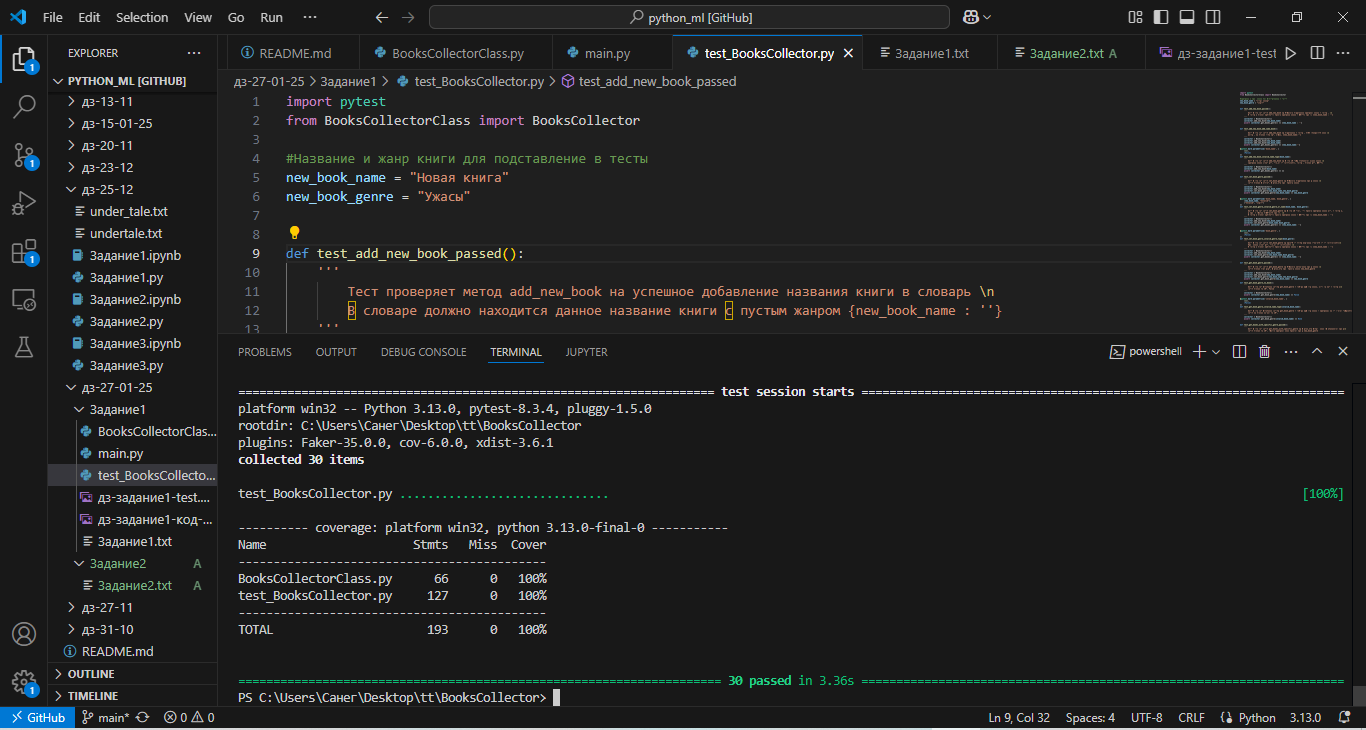
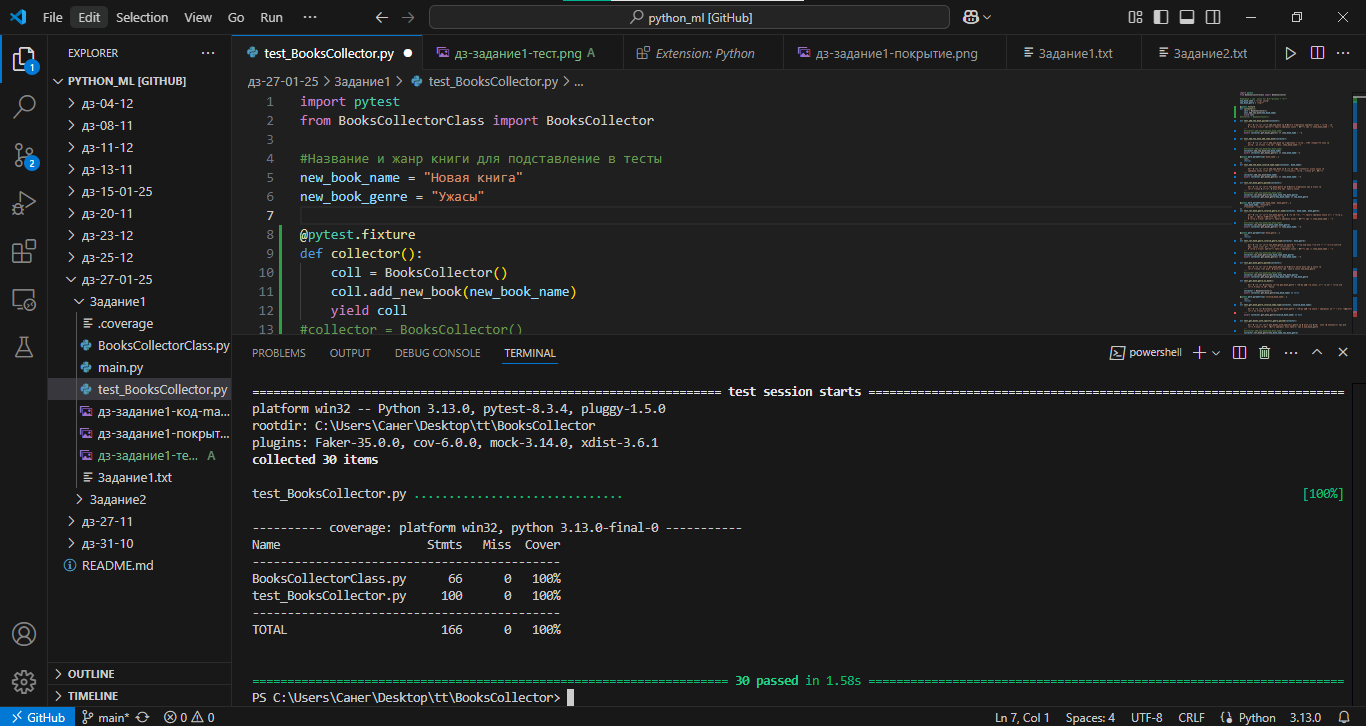
Поправки в Задании1 и 2

diff --git a/дз-27-01-25/Задание1/test_BooksCollector.py b/дз-27-01-25/Задание1/test_BooksCollector.py
@@ -5,24 +5,26 @@ from BooksCollectorClass import BooksCollector
 new_book_name = "Новая книга"
 new_book_genre = "Ужасы"
 
+@pytest.fixture
+def collector():
+    '''Возвращает обьект BooksCollector с одной добавленной книгой без жанра для тестирования'''
+    coll = BooksCollector()
+    coll.add_new_book(new_book_name)
+    yield coll
 
-def test_add_new_book_passed():
+def test_add_new_book_passed(collector):
     '''
         Тест проверяет метод add_new_book на успешное добавление названия книги в словарь \n
         В словаре должно находится данное название книги с пустым жанром {new_book_name : ''}
     '''
-    collector = BooksCollector()
-    collector.add_new_book(new_book_name)
     assert collector.get_books_genre() == {new_book_name : ''}
 
 
-def test_add_new_book_add_same_book():
+def test_add_new_book_add_same_book(collector):
     '''
         Тест проверяет метод add_new_book на добавление в словарь двух одинаковых книг \n
         Словарь не должен содержать копии, {new_book_name:''}
     '''
-    collector = BooksCollector()
-    collector.add_new_book(new_book_name)
     collector.add_new_book(new_book_name)
     assert collector.get_books_genre() == {new_book_name:''}
 
@@ -30,23 +32,20 @@ def test_add_new_book_add_same_book():
     (11),
     (False)
 ])
-def test_add_new_book_invalid_name_type(book_name):
+def test_add_new_book_invalid_name_type(collector, book_name):
     '''
         Тест проверяет метод add_new_book на проверку типа введенного имени книги \n
-        Название книги может быть только строковым(str), словарь должен быть пустым
+        Название книги может быть только строковым(str), словарь должен содержать только книгу добавленную в начале тестов collector
     '''
-    collector = BooksCollector()
     collector.add_new_book(book_name)
-    assert collector.get_books_genre() == {}
+    assert collector.get_books_genre() == {new_book_name: ''}
 
 
-def test_set_book_genre_passed():
+def test_set_book_genre_passed(collector):
     '''
         Тест проверяет метод set_book_genre на успешное добавление жанра книги \n
         Метод должен присвоить правильный жанр данной книги
     '''
-    collector = BooksCollector()
-    collector.add_new_book(new_book_name)
     collector.set_book_genre(new_book_name,new_book_genre)
     assert collector.get_book_genre(new_book_name) == new_book_genre
 
@@ -55,14 +54,12 @@ def test_set_book_genre_passed():
     (new_book_name, "Invalid"),
     ("Invalid", "Ужасы")
 ])
-def test_set_book_genre_invalid_genre_or_name(book_name, book_genre):
+def test_set_book_genre_invalid_genre_or_name(collector, book_name, book_genre):
     '''
         Тест проверяет метод set_book_genre на проверку того, что данное название книги есть в словаре,
         а жанр в списке допутимых жанров. \n
         В словаре должно находится данное название книги с пустым жанром {new_book_name : ''}
     '''
-    collector = BooksCollector()
-    collector.add_new_book(new_book_name)
     collector.set_book_genre(book_name,book_genre)
     assert collector.get_books_genre() == {new_book_name: ''}
 
@@ -71,25 +68,21 @@ def test_set_book_genre_invalid_genre_or_name(book_name, book_genre):
     (11),
     (False)
 ])
-def test_set_book_genre_invalid_genre_type(book_genre):
+def test_set_book_genre_invalid_genre_type(collector, book_genre):
     '''
         Тест проверяет метод set_book_genre на защиту от ввода значений отличных от строкового(str)\n
         Жанр книги может быть только строковым(str) \n
         В словаре должно находится данное название книги с пустым жанром {new_book_name : ''}
     '''
-    collector = BooksCollector()
-    collector.add_new_book(new_book_name)
     collector.set_book_genre(new_book_name,book_genre)
     assert collector.get_books_genre() == {new_book_name: ''}
 
 
-def test_get_book_genre_passed():
+def test_get_book_genre_passed(collector):
     '''
         Тест проверяет метод get_book_genre на успешное извлечение жанра книги \n
         Метод должен возвращать правильный жанр данной книги new_book_genre
     '''
-    collector = BooksCollector()
-    collector.add_new_book(new_book_name)
     collector.set_book_genre(new_book_name,new_book_genre)
     assert collector.get_book_genre(new_book_name) == new_book_genre
 
@@ -105,22 +98,19 @@ def test_get_book_genre_no_book():
     (11),
     (False)
 ])
-def test_get_book_genre_invalid_name_type(invalid_book_name):
+def test_get_book_genre_invalid_name_type(collector, invalid_book_name):
     '''
         Тест проверяет поведение метода get_book_genre в случае запроса книги с названием не строчного типа(str)\n
         Метод не должен ничего вернуть
     '''
-    collector = BooksCollector()
     assert collector.get_book_genre(invalid_book_name) == None
 
 
-def test_get_books_with_specific_genre_passed():
+def test_get_books_with_specific_genre_passed(collector):
     '''
         Тест проверяет метод get_books_with_specific_genre на правильный подбор книг определенного жанра\n
         Метод должен вернуть список названия книг данного жанра new_book_genre
     '''
-    collector = BooksCollector()
-    collector.add_new_book(new_book_name)
     collector.set_book_genre(new_book_name,new_book_genre)
     collector.add_new_book("Другая книга")
     collector.set_book_genre("Другая книга",new_book_genre)
@@ -129,25 +119,23 @@ def test_get_books_with_specific_genre_passed():
     assert collector.get_books_with_specific_genre(new_book_genre) == [new_book_name, "Другая книга"]
 
 
-def test_get_books_with_specific_genre_invalid_genre():
+def test_get_books_with_specific_genre_invalid_genre(collector):
     '''
         Тест проверяет метод get_books_with_specific_genre на проверку того,
         что данный жанр находится в списке допустимых \n
         Метод должен вернуть False
     '''
-    collector = BooksCollector()
     assert collector.get_books_with_specific_genre("Invalid") == False
 
 @pytest.mark.parametrize('book_genre', [
     (11),
     (False)
 ])
-def test_get_books_with_specific_genre_invalid_genre_type(book_genre):
+def test_get_books_with_specific_genre_invalid_genre_type(collector,book_genre):
     '''
         Тест проверяет метод get_books_with_specific_genre на защиту от обработки жанров не строчного типа\n
         Метод не должен ничего возвращать в этом случае
     '''
-    collector = BooksCollector()
     assert collector.get_books_with_specific_genre(book_genre) == None
 
 def test_get_books_genre_passed():
@@ -167,34 +155,28 @@ def test_get_books_genre_passed():
     ("Сказки", [new_book_name]),
     ("Ужасы", [])
 ])
-def test_get_books_for_children_passed(book_genre, expected_book_genre):
+def test_get_books_for_children_passed(collector, book_genre, expected_book_genre):
     '''
         Тест проверяет метод get_books_for_children на успешное возрвращение списка книг, которые подходят детям\n
         Метод должен возвращать список со всеми книгами подходящими для детей
     '''
-    collector = BooksCollector()
-    collector.add_new_book(new_book_name)
     collector.set_book_genre(new_book_name,book_genre)
     assert collector.get_books_for_children() == expected_book_genre
 
-def test_add_book_in_favorites_passed():
+def test_add_book_in_favorites_passed(collector):
     '''
         Тест проверяет метод add_book_in_favorites на успешное добавление книги в список избранных\n
         Метод должен добавить данное название книги new_book_name в список избранных
     '''
-    collector = BooksCollector()
-    collector.add_new_book(new_book_name)
     collector.set_book_genre(new_book_name,new_book_genre)
     collector.add_book_in_favorites(new_book_name)
     assert collector.get_list_of_favorites_books() == [new_book_name]
 
-def test_add_book_in_favorites_add_same_book():
+def test_add_book_in_favorites_add_same_book(collector):
     '''
         Тест проверяет поведение метода add_book_in_favorites в случае повторного добавления книги в список избранных \n
         В списке избранных не должно быть дубликатов, [new_book_name]
     '''
-    collector = BooksCollector()
-    collector.add_new_book(new_book_name)
     collector.set_book_genre(new_book_name,new_book_genre)
     collector.add_book_in_favorites(new_book_name)
     collector.add_book_in_favorites(new_book_name)
@@ -214,34 +196,29 @@ def test_add_book_in_favorites_invalid_name():
     (11),
     (False)
 ])
-def test_add_book_in_favorites_invalid_name_type(invalid_book_name):
+def test_add_book_in_favorites_invalid_name_type(collector, invalid_book_name):
     '''
         Тест проверяет поведение метода add_book_in_favorites, когда тип данного названия книги не является строчным\n
         Список избранных должен быть пустым
     '''
-    collector = BooksCollector()
     collector.add_book_in_favorites(invalid_book_name)
     assert collector.get_list_of_favorites_books() == []
 
-def test_delete_book_from_favorites_passed():
+def test_delete_book_from_favorites_passed(collector):
     '''
         Тест проверяет метод delete_book_from_favorites на успешное удаление книги из списка избранных\n
         Список избранных должен быть пустым
     '''
-    collector = BooksCollector()
-    collector.add_new_book(new_book_name)
     collector.set_book_genre(new_book_name,new_book_genre)
     collector.add_book_in_favorites(new_book_name)
     collector.delete_book_from_favorites(new_book_name)
     assert collector.get_list_of_favorites_books() == []
 
-def test_delete_book_from_favorites_invalid_name():
+def test_delete_book_from_favorites_invalid_name(collector):
     '''
         Тест проверяет метод delete_book_from_favorites на попытку удаления книги, которой нет в списке избранных\n
         Список избранных не должен измениться
     '''
-    collector = BooksCollector()
-    collector.add_new_book(new_book_name)
     collector.set_book_genre(new_book_name,new_book_genre)
     collector.add_book_in_favorites(new_book_name)
     collector.delete_book_from_favorites("Не та книга")
@@ -251,31 +228,24 @@ def test_delete_book_from_favorites_invalid_name():
     (11),
     (False)
 ])
-def test_delete_book_from_favorites_invalid_name_type(invalid_book_name):
+def test_delete_book_from_favorites_invalid_name_type(collector, invalid_book_name):
     '''
         Тест проверяет метод delete_book_from_favorites на попытку удаления названия книги не строчного типа\n
         Список избранных не должен измениться
     '''
-    collector = BooksCollector()
-    collector.add_new_book(new_book_name)
     collector.set_book_genre(new_book_name,new_book_genre)
     collector.add_book_in_favorites(new_book_name)
     collector.delete_book_from_favorites(invalid_book_name)
     assert collector.get_list_of_favorites_books() == [new_book_name]
 
 
-def test_get_list_of_favorites_books():
+def test_get_list_of_favorites_books(collector):
     '''
         Тест проверяет метод get_list_of_favorites на успешное возвращение списка избранных книг\n
         Метод сначала должен вернуть пустой список, а потом заполненный [new_book_name]
     '''
-    collector = BooksCollector()
     assert collector.get_list_of_favorites_books() == []
     collector.add_new_book(new_book_name)
     collector.set_book_genre(new_book_name,new_book_genre)
     collector.add_book_in_favorites(new_book_name)
     assert collector.get_list_of_favorites_books() == [new_book_name]
-
-
-
-

diff --git a/дз-27-01-25/Задание2/CreditCard.py b/дз-27-01-25/Задание2/CreditCard.py
@@ -65,6 +65,3 @@ class CreditCard:
         if isinstance(money, float) and money >= 0.0:
             return True
         return False
-
-    
-        

diff --git a/дз-27-01-25/Задание2/PaymentForm.py b/дз-27-01-25/Задание2/PaymentForm.py
@@ -7,4 +7,3 @@ class PaymentForm():
     
     def pay(self, amount:float):
         return self.__creditCard.charge(amount)
-

diff --git a/дз-27-01-25/Задание2/main.py b/дз-27-01-25/Задание2/main.py
@@ -23,6 +23,3 @@ except Exception as e:
 #Успешный платеж
 result=payment_form.pay(50.00)
 print(result)
-
-
-
